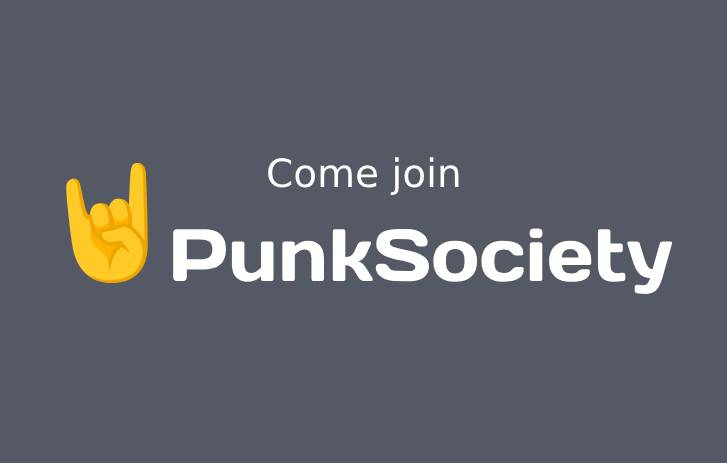
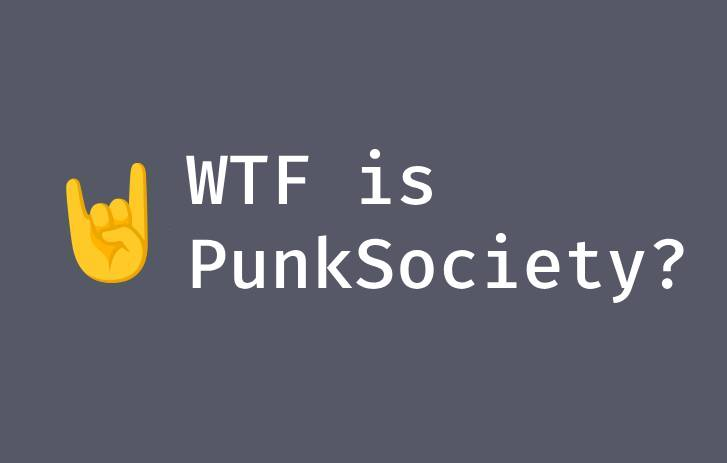
Changed thumbnail and improved About

Changed region(s): [[0.2118, 0.4838, 0.9381, 0.6652], [0.2421, 0.3326, 0.6355, 0.4536]]

diff --git a/packages/nextjs/app/about/About.tsx b/packages/nextjs/app/about/About.tsx
@@ -13,7 +13,7 @@ export interface Post extends Partial<NFTMetaData> {
 }
 
 export const About = () => {
-  const [usdcPrice, setUsdcPrice] = useState<number>();
+  const [usdcPrice, setUsdcPrice] = useState<number>(1);
   // const [averageUsdcPrice, setAverageUsdcPrice] = useState<number>();
   const averageUsdcPrice = "";
 
